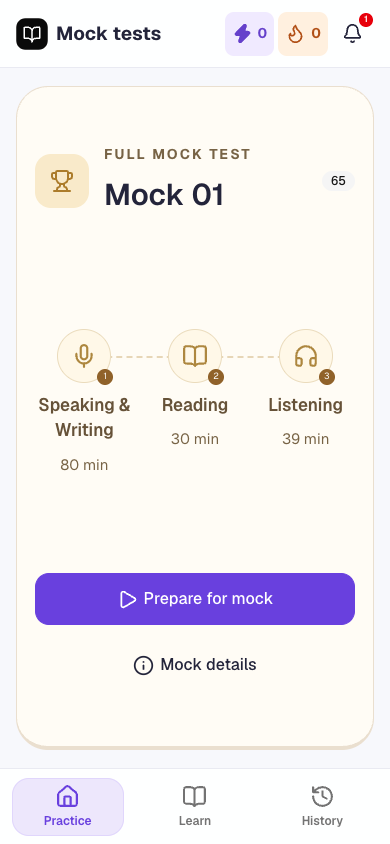
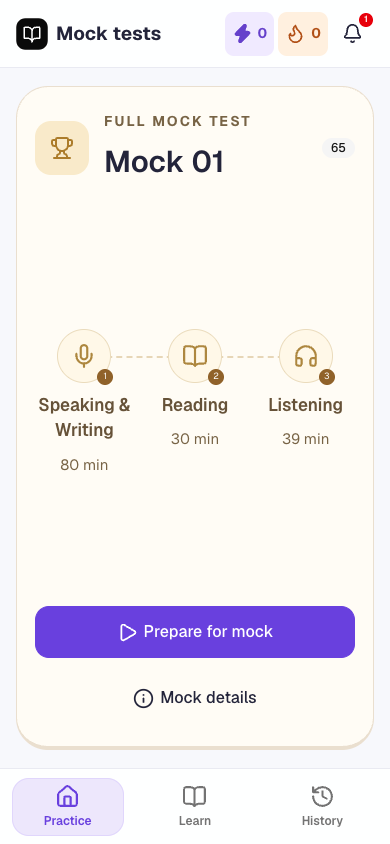
Keep mock actions reachable in short and enlarged layouts

Changed region(s): [[0.0923, 0.6777, 0.9231, 0.8318], [0.0923, 0.1232, 0.6462, 0.2464], [0.8308, 0.154, 0.8923, 0.2156]]

diff --git a/tests/practice.spec.ts b/tests/practice.spec.ts
@@ -1485,3 +1485,37 @@ test("header notifications disclose speech preparation, errors and recovery", as
       .getByText("No notifications", { exact: true }),
   ).toBeVisible();
 });
+
+test.describe("short mock recovery layout", () => {
+  test.use({ serviceWorkers: "block" });
+  test("mock details and preparation remain reachable above the mobile footer", async ({
+    page,
+  }) => {
+    await page.emulateMedia({ reducedMotion: "reduce" });
+    await page.setViewportSize({ width: 320, height: 568 });
+    await page.route("**/models/**", (route) => route.abort());
+    for (const scale of [1, 2]) {
+      await page.goto("/mocks");
+      await expect(page.getByRole("alert")).toContainText(
+        "Offline setup failed",
+      );
+      if (scale === 2)
+        await page.addStyleTag({
+          content: "html { font-size: 200% !important; }",
+        });
+      await page
+        .getByRole("button", { name: "Mock details", exact: true })
+        .click({ timeout: 2000 });
+      await expect(
+        page.getByRole("dialog", { name: "Mock details", exact: true }),
+      ).toBeVisible();
+      await page.keyboard.press("Escape");
+      await page
+        .getByRole("button", { name: "Prepare for mock", exact: true })
+        .click();
+      await expect(
+        page.getByRole("heading", { name: "Full mock 01", exact: true }),
+      ).toBeVisible();
+    }
+  });
+});

diff --git a/src/screens.css b/src/screens.css
@@ -539,12 +539,18 @@
 }
 .mock-arena {
   height: 100%;
+  min-height: 0;
   max-width: none;
   padding: 40px;
   border-radius: 32px;
   display: flex;
   flex-direction: column;
-  justify-content: space-around;
+  justify-content: space-between;
+  gap: 24px;
+  overflow-y: auto;
+}
+.mock-arena > * {
+  flex-shrink: 0;
 }
 .mock-heading h2 {
   font-size: 40px;

diff --git a/docs/ui-consistency-audit.md b/docs/ui-consistency-audit.md
@@ -8,7 +8,7 @@ The reference is the existing practice game interface: violet actions and select
 
 - Shared Buttons expose variant/size metadata. Practice styles use that metadata, since Base UI tooltip/popover render composition can replace `data-slot`. Primary actions, selected guidance/filter/review controls, secondary actions and keyboard focus now share the practice vocabulary, including portal content.
 - Preflight uses the shared violet quest card, lime Begin action, readable plan/count, media-check cards and collapsed details. Start requirements and lifecycle are unchanged.
-- Mock preparation has a large labelled action. The stage connector follows the actual node centres on desktop, mobile and short windows.
+- Mock preparation has a large labelled action. The stage connector follows the actual node centres on desktop, mobile and short windows. The panel scrolls locally when short/enlarged-text or error-banner layouts cannot contain its actions.
 - Achievement screens show the heading once, with a separate earned count. Supporting progress, achievement, mode, history and mock text has stronger contrast on its soft surfaces. Decorative stars are hidden from assistive technology.
 - Empty/search/missing/loading recovery panels share alignment and surface treatment. Existing actionable error text is retained.
 - Practice dialogs and notifications share rounded surfaces and readable controls. Close targets are at least 44 pixels; confirmation actions wrap on narrow/zoomed screens. Clear history uses the destructive variant. Exam confirmation dialogs retain neutral styling and gain the same wrapping/scroll protection.
@@ -48,7 +48,7 @@ Each row is included in the audit. “Retained” means its existing distinct tr
 
 - `npm run build`: content/media contracts, pinned model pack, Start static shell generation, TypeScript, client publish and service-worker build. The existing large-chunk warning remains.
 - Focused Chromium selection covers responsive cards/navigation/reading, all response-control families, recording/review, one-play listening, mock progression, media denial, daily rewards, reload/back, shared playback, filters/history and notifications. Full repository/model inference suites are deferred until merging is requested; this task does not authorize merge or deployment.
-- Current validation: 21 focused practice browser journeys and 2 focused speech-review journeys passed, including the new regression; the static-output contract passed. The route/content matrix passed 504 states at 320×568, 360×640, 390×844 and 1440×900, and separate captures passed all 10 response-control kinds. Sixteen confirmation/info/achievement dialog checks passed across those sizes.
+- Current validation before review: 21 focused practice browser journeys and 2 focused speech-review journeys passed, including the syllable regression; the static-output contract passed. The route/content matrix passed 504 states at 320×568, 360×640, 390×844 and 1440×900, and separate captures passed all 10 response-control kinds. This matrix checks horizontal overflow and reading-copy fit, not unobscured hit targets. Sixteen confirmation/info/achievement dialog checks passed across those sizes.
 - Additional browser matrix checks all 22 guidance screens/tabs, every learning topic/block, section details, basic routes, mock disclosure and representative runner kinds at narrow phone and desktop sizes. Saved review fixtures exercise legacy transcript/syllable/chart rendering without invoking models.
 - Screenshots and disposable browser fixtures live under ignored `artifacts/ui-audit/`; they contain synthetic practice state. Any controlled download failure proves its error presentation, not an actual provider failure. Real download/recovery is separately covered by the focused notification journey.
 - Native iOS/Safari, OS text scaling, and a screen reader were not available. Chromium mobile viewports and keyboard checks do not establish those device-specific outcomes. Generated colours/gradients and decorative icons are not claimed to have a complete automated accessibility certification.
@@ -60,3 +60,11 @@ No learning content, credentials, model, persistence schema, grading, XP logic, 
 ![Mock preparation on mobile](evidence/ui-consistency-mock-mobile.png)
 
 ![Readable syllable results on a short phone](evidence/ui-consistency-speech-mobile.png)
+
+## Independent review disposition
+
+The expanded review of `69948a7` identified one P2: at 320×568 the new mock action row could put Mock details behind the mobile footer, particularly with enlarged text or the supported offline-error alert. The reviewer confirmed the changed cause by removing only the added Prepare row in a disposable DOM. No other actionable finding was identified. The horizontal/text-fit matrix did not establish vertical hit-target reachability.
+
+The fix adds local mock-panel scrolling with non-shrinking, readable content. A click-based regression first reproduced the footer interception, then checks both Mock details and Prepare for mock at ordinary and 200% root text sizing with the error alert visible. Resulting candidate checks are recorded on the PR. The fix is validated within this final review cycle; it does not imply another independent review pass or merge authority.
+
+After the review fix, the build/static-output/format checks passed and all 24 focused journeys passed. One layout journey was rerun unchanged in isolation after a concurrent Playwright output-directory collision caused a trace-file cleanup error; the isolated rerun passed. Twenty mock hit-target/click cases passed across five viewports, ordinary/enlarged text and service-worker-enabled/error states; all sixteen dialog checks passed again.
